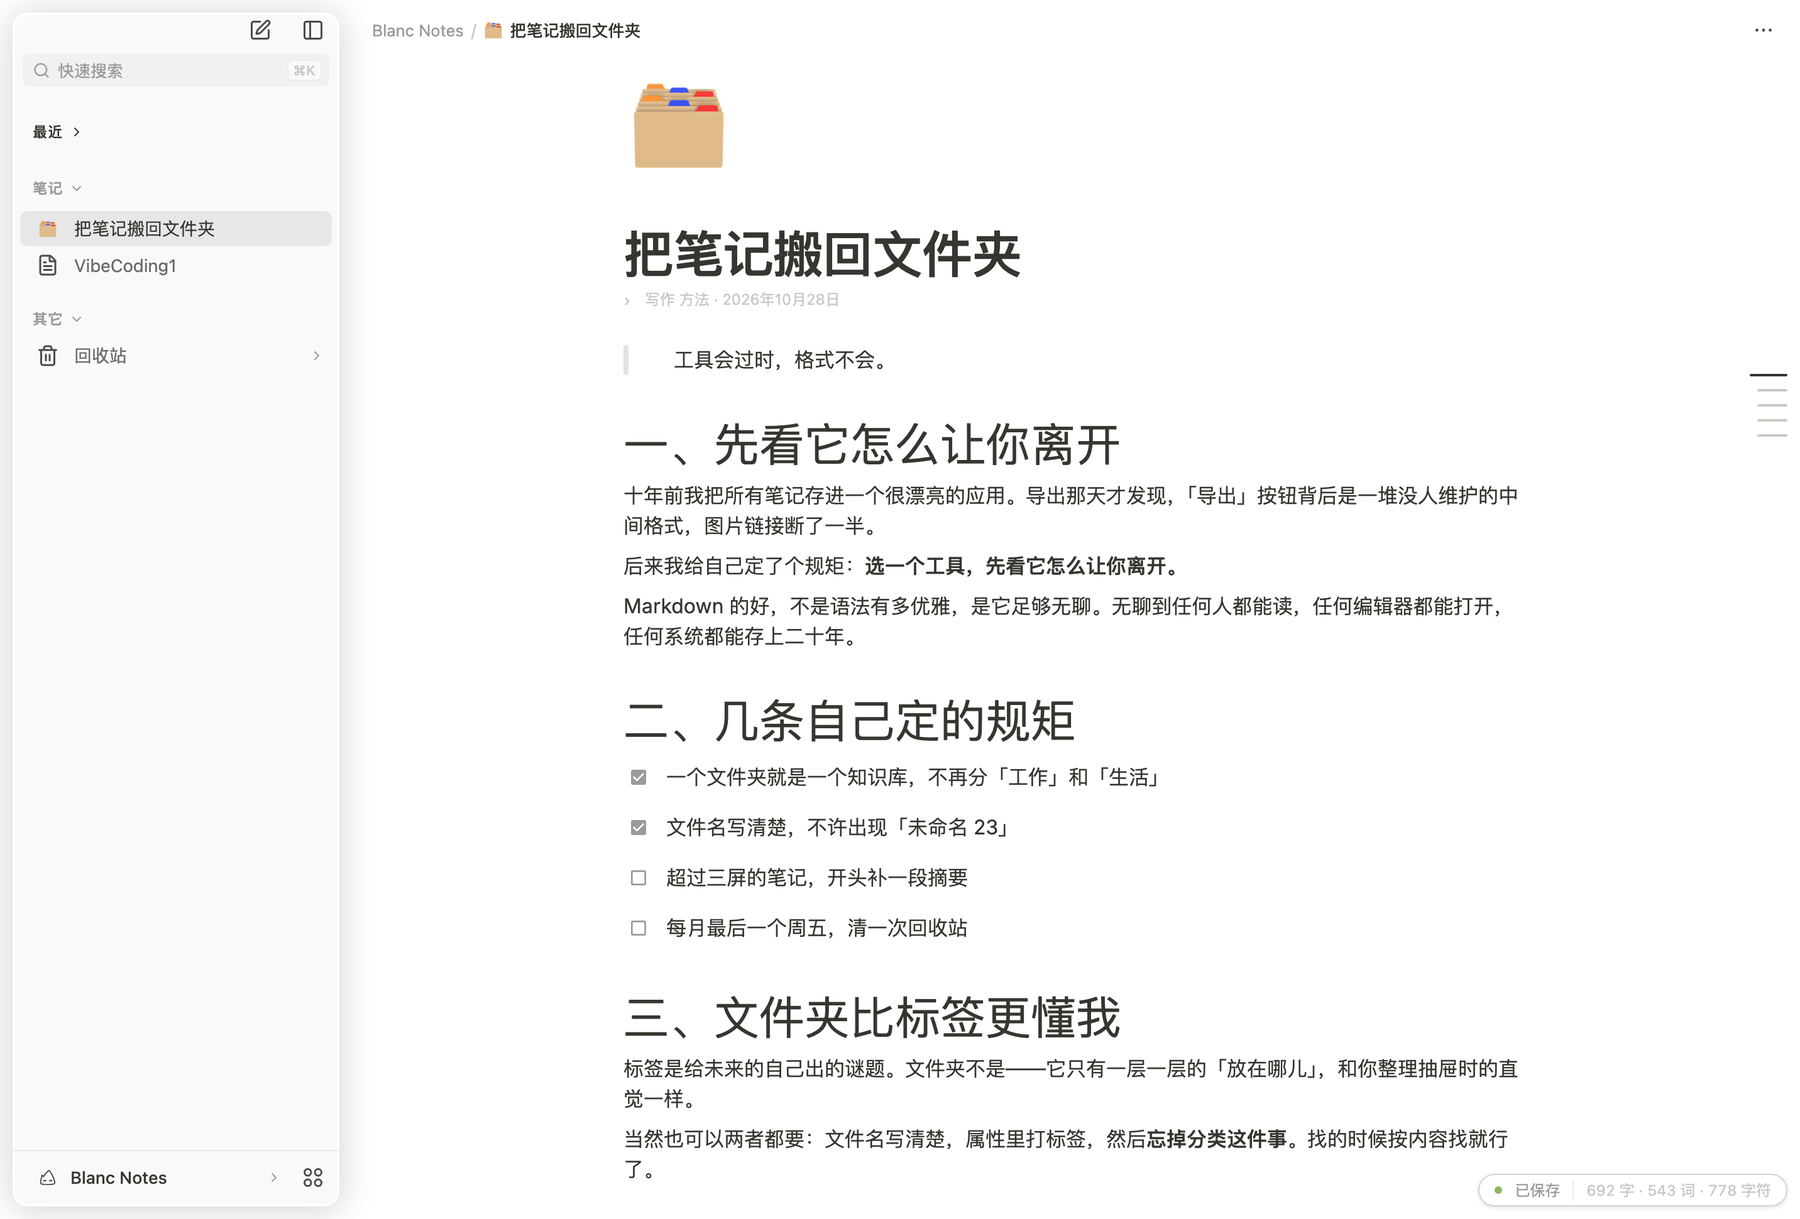
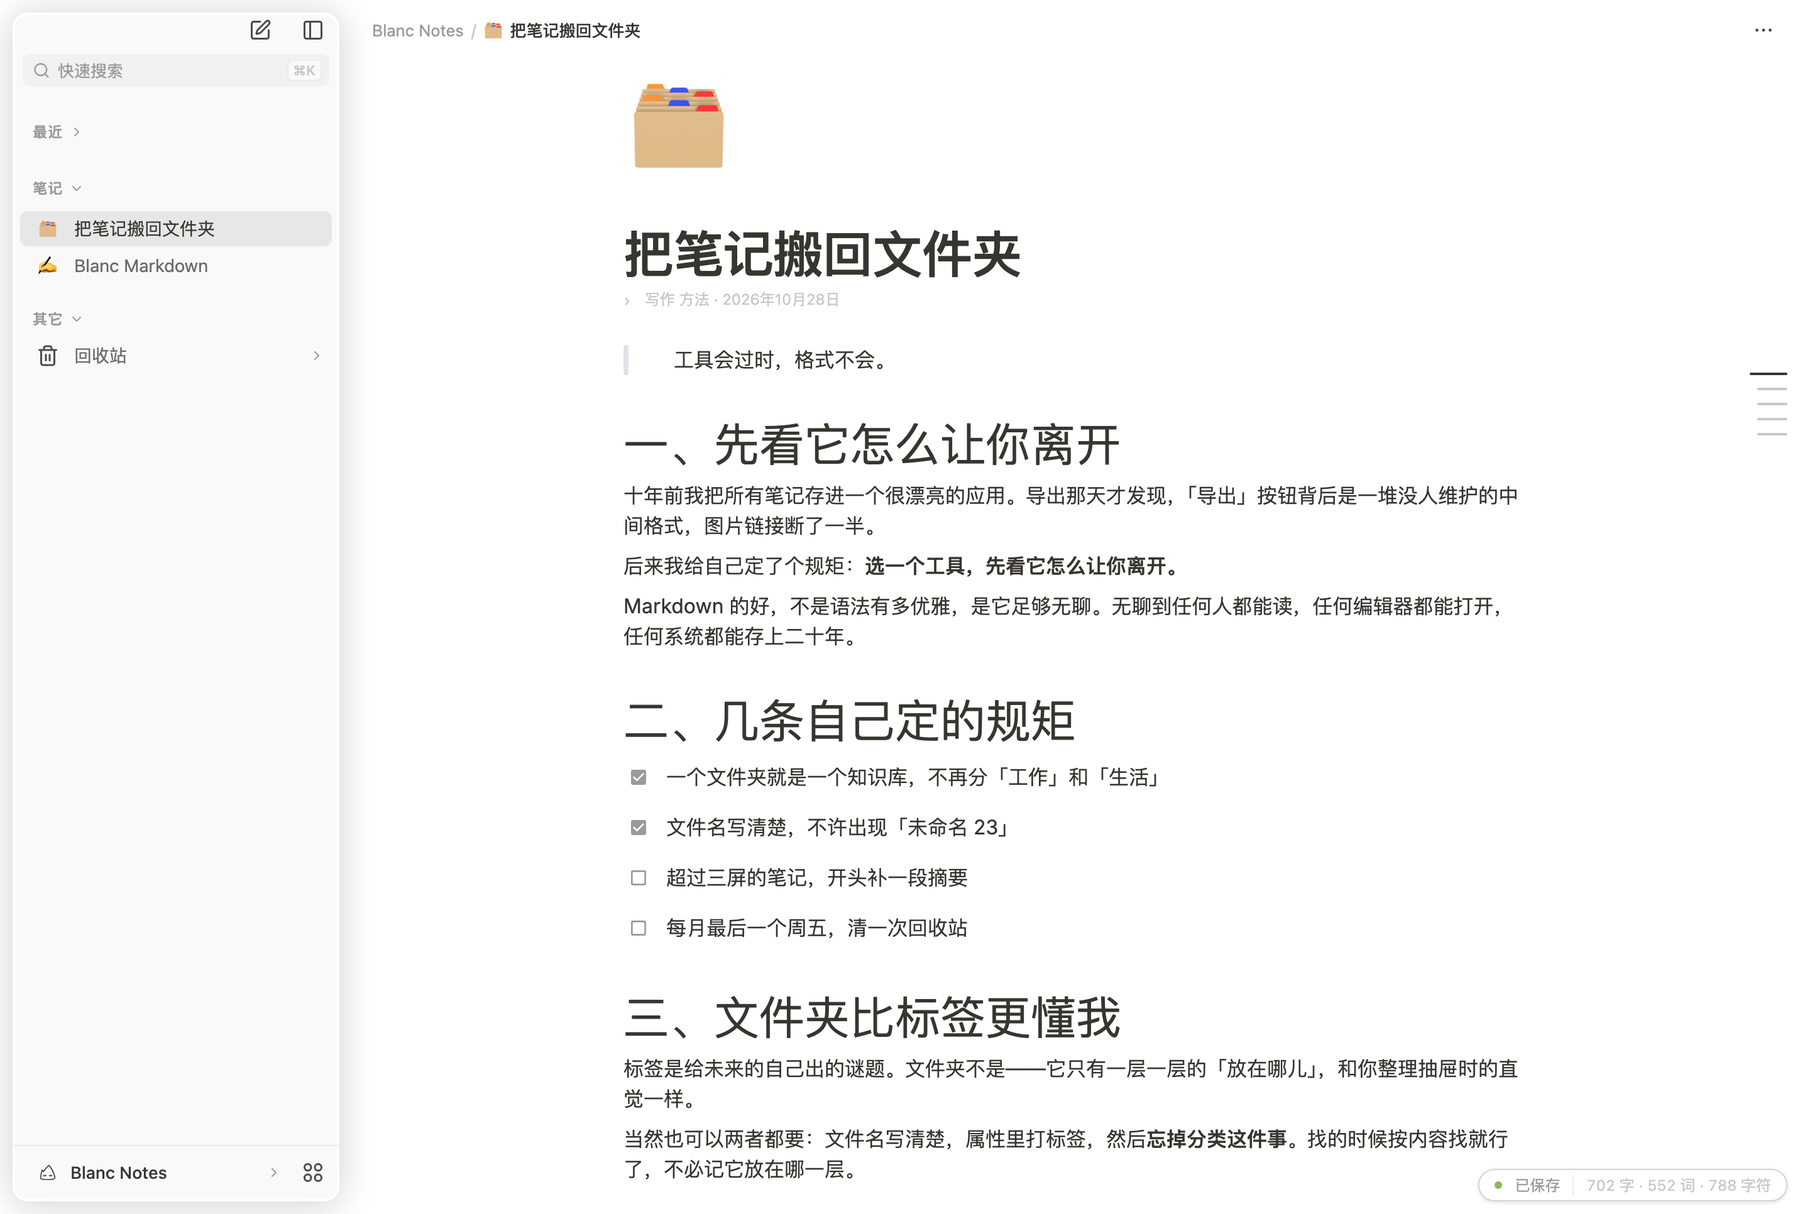
docs: 加一张六种外观的堆叠首图，重拍单张截图
- docs/themes.png：纸白/米色/冷灰 × 亮/暗六张，纵向错位堆叠，
  白色「纸白·亮色」在最前，透明底 + 圆角 + 投影
- docs/screenshot.png：笔记库改名后重拍（Blanc Markdown、把笔记搬回文件夹），
  底部收在段落结束处，不再切出半个字
- README 在「一句话」后插入首图与图注

diff --git a/README.md b/README.md
@@ -13,6 +13,10 @@ Blanc 长着一张 Notion 的脸，骨子里是一个文件夹。
 没有账号，没有数据库，没有「正在同步」。你写的每一篇都躺在自己的磁盘上，
 是一个任何编辑器都能打开的 `.md`。应用没了，笔记还在；换台电脑，把文件夹拷走就行。
 
+![纸白 / 米色 / 冷灰三套配色，各有亮暗两版，共六种外观](docs/themes.png)
+
+三套配色 × 明暗两版 = 六种外观，白色「纸白·亮色」是最前面那一张，也是默认。
+
 ## 打开就能感觉到的几件事
 
 - **图标是自由的。** 文件、文件夹、知识库、文档标题——想换成什么就换成什么。
